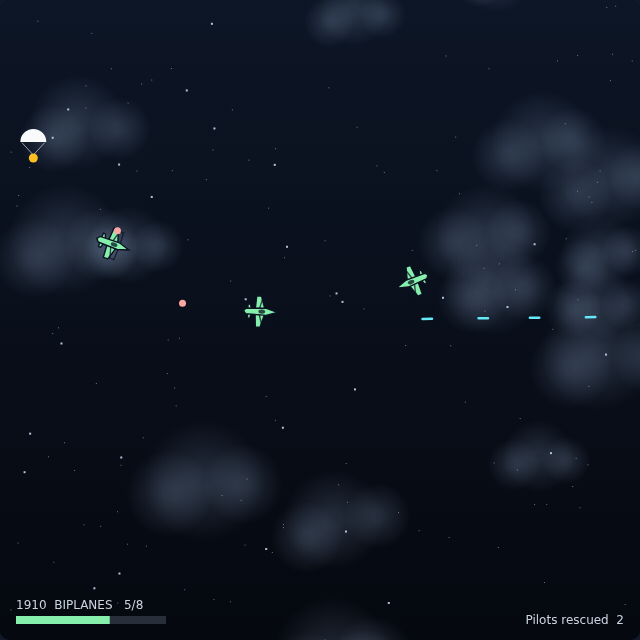
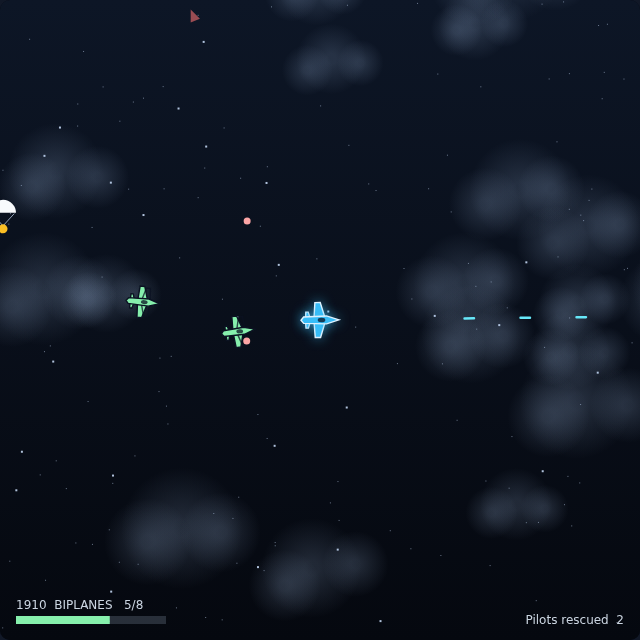
Tune Time Pilot's balance and readability from measured play
Three fixes that came out of actually watching the game run rather than
reading the code:

- Enemies turned at 2.8 rad/s against the player's 2.6, so they out-turned
  the plane and a pursuing pilot died on contact with nothing it could do
  about it. Enemy turn rate is now 1.8 — the gap is the dogfight.
- The early eras were doing late-era work: 4-6 enemies alive and a 1.9s
  fire gap in 1910 burned all three lives inside 8 seconds on a bad seed.
  Thinned the caps and slowed the fire gaps per era; a pilot who never
  touches the controls now lasts 83-175s rather than 30-80s, and lives are
  lost while engaging instead of while arriving. Invulnerability 2s -> 2.5s.
- Invulnerability hid the plane on alternate tenths of a second, so the one
  moment a player most needs to re-orient was the moment they could not see
  their own nose. It now pulses inside a shield ring instead.

Also: the overlay button reads Resume / Fly Again as appropriate, the game
over screen reports the era reached and pilots rescued, and DESIGN.md is
updated to match the shipped numbers and to record why each of them is what
it is. Screenshot retaken.

71 Playwright tests still green.

Claude-Session: https://claude.ai/code/session_01RESMis8NJFFaDayUcgr6cU

diff --git a/TimePilot/game.js b/TimePilot/game.js
@@ -20,7 +20,7 @@ const PLAYER_SPEED = 150;            // px/s, constant — there is no throttle
 const TURN_RATE = 2.6;               // radians/second
 const PLAYER_R = 11;                 // collision radius
 const NOSE = 14;                     // muzzle offset from the plane's centre
-const INVULN_TIME = 2;               // seconds of grace after a hit
+const INVULN_TIME = 2.5;             // seconds of grace after a hit
 const START_LIVES = 3;
 
 // --- guns ------------------------------------------------------------------
@@ -37,7 +37,7 @@ const ENEMY_BULLET_LIFE = 2.6;
 // --- enemies ---------------------------------------------------------------
 
 const ENEMY_R = 13;
-const ENEMY_TURN = 2.8;              // radians/second of weak homing
+const ENEMY_TURN = 1.8;              // radians/second — below the player's 2.6 on purpose
 const ENEMY_RANGE = 320;             // will not shoot from further than this
 const ENEMY_AIM = 0.5;               // radians of aim error it will shoot through
 const ENEMY_SPAWN_GAP = 0.9;         // seconds between arrivals
@@ -61,11 +61,11 @@ const SPEED_STEP = 0.08;             // extra enemy speed per completed cycle
 const BEST_KEY = 'timepilot-best';
 
 const ERAS = [
-    { year: 1910, name: 'BIPLANES',      speed: 95,  maxAlive: 4, quota: 8,  points: 100, fireGap: 1.9,  tint: '#86efac' },
-    { year: 1940, name: 'PROP FIGHTERS', speed: 112, maxAlive: 5, quota: 10, points: 200, fireGap: 1.6,  tint: '#fde047' },
-    { year: 1970, name: 'JETS',          speed: 130, maxAlive: 5, quota: 12, points: 300, fireGap: 1.35, tint: '#93c5fd' },
-    { year: 1983, name: 'GUNSHIPS',      speed: 146, maxAlive: 6, quota: 14, points: 400, fireGap: 1.15, tint: '#fda4af' },
-    { year: 2001, name: 'SAUCERS',       speed: 162, maxAlive: 6, quota: 16, points: 500, fireGap: 0.95, tint: '#d8b4fe' },
+    { year: 1910, name: 'BIPLANES',      speed: 95,  maxAlive: 3, quota: 8,  points: 100, fireGap: 2.6, tint: '#86efac' },
+    { year: 1940, name: 'PROP FIGHTERS', speed: 112, maxAlive: 4, quota: 10, points: 200, fireGap: 2.2, tint: '#fde047' },
+    { year: 1970, name: 'JETS',          speed: 130, maxAlive: 4, quota: 12, points: 300, fireGap: 1.8, tint: '#93c5fd' },
+    { year: 1983, name: 'GUNSHIPS',      speed: 146, maxAlive: 5, quota: 14, points: 400, fireGap: 1.5, tint: '#fda4af' },
+    { year: 2001, name: 'SAUCERS',       speed: 162, maxAlive: 5, quota: 16, points: 500, fireGap: 1.2, tint: '#d8b4fe' },
 ];
 
 // --- state -----------------------------------------------------------------
@@ -191,7 +191,7 @@ function announceEra() {
 function togglePause() {
     if (state === 'running') {
         state = 'paused';
-        showOverlay('PAUSED', 'Score ' + score, 'Press P to resume');
+        showOverlay('PAUSED', 'Score ' + score, 'Press P to resume', 'Resume');
     } else if (state === 'paused') {
         state = 'running';
         hideOverlay();
@@ -205,10 +205,12 @@ function gameOver() {
         saveBest();
     }
     updateHud();
+    const rescues = rescued === 1 ? '1 pilot rescued' : rescued + ' pilots rescued';
     showOverlay(
         'GAME OVER',
         'Score ' + score + '  •  Best ' + best,
-        'Press Space to fly again',
+        'Reached ' + era().year + '  •  ' + rescues + '. Press Space to fly again.',
+        'Fly Again',
     );
 }
 
@@ -455,10 +457,11 @@ function updateHud() {
     els.best.textContent = String(best);
 }
 
-function showOverlay(title, scoreLine, sub) {
+function showOverlay(title, scoreLine, sub, button) {
     els.title.textContent = title;
     els.overlayScore.textContent = scoreLine;
     els.sub.textContent = sub;
+    els.start.textContent = button;
     els.overlay.classList.add('visible');
 }
 
@@ -779,10 +782,20 @@ function draw() {
         ctx.stroke();
     }
 
-    // The plane, forever at the centre. It blinks while invulnerable.
-    const blink = player.invuln > 0 && Math.floor(player.invuln * 10) % 2 === 0;
-    if (state !== 'gameover' && !blink) {
+    // The plane, forever at the centre. While invulnerable it pulses inside a
+    // shield ring rather than blinking out: a plane that is missing on half the
+    // frames is a plane you cannot aim.
+    if (state !== 'gameover') {
         ctx.save();
+        if (player.invuln > 0) {
+            const pulse = 0.5 + 0.5 * Math.sin(player.invuln * 14);
+            ctx.globalAlpha = 0.5 + 0.5 * pulse;
+            ctx.strokeStyle = 'rgba(103, 232, 249, ' + (0.2 + 0.3 * pulse).toFixed(3) + ')';
+            ctx.lineWidth = 2;
+            ctx.beginPath();
+            ctx.arc(W / 2, H / 2, 26, 0, Math.PI * 2);
+            ctx.stroke();
+        }
         ctx.shadowColor = 'rgba(56, 189, 248, 0.55)';
         ctx.shadowBlur = 12;
         drawCraft(W / 2, H / 2, player.heading, 19, '#38bdf8', '#e0f2fe', 'prop', spin);

diff --git a/TimePilot/DESIGN.md b/TimePilot/DESIGN.md
@@ -16,8 +16,9 @@ moving and can point anywhere.
   prop fighters, 1970 jets, 1983 gunships, 2001 saucers.
 - Each era has a kill quota. Fill it and the clock jumps to the next era;
   clear 2001 and the cycle restarts one difficulty step harder.
-- Pilots shot down over the battlefield bail out. Fly *into* a parachute to
-  rescue the pilot for a 1000-point bonus — the only way to score big.
+- Pilots bail out over the battlefield from time to time (on a timer, not off
+  the back of a kill). Fly *into* a parachute to rescue one for a 1000-point
+  bonus — worth more than any kill in any era.
 - Three lives. An enemy plane, or one of its bullets, costs one.
 
 ## Mechanics
@@ -46,28 +47,45 @@ The world is unbounded — there are no walls. Any enemy or bullet further than
 
 ### Enemies
 
-Enemies spawn on the despawn ring at a random bearing and fly a weak homing
-course: each tick they steer toward the player at `ENEMY_TURN` (1.1 rad/s) and
-move at their era's speed. Weak homing means they overshoot and come back round,
-which produces the swirling dogfight the original arcade game is known for,
-without any per-enemy state machine.
+Enemies spawn on the spawn ring at a random bearing and fly a weak homing
+course: each tick they steer toward the player at `ENEMY_TURN` and move at
+their era's speed. Weak homing means they overshoot and come back round, which
+produces the swirling dogfight without any per-enemy state machine.
 
-An enemy whose nose is within ~0.5 rad of the player and inside 320 px may fire;
-the chance per second is the era's `fireRate`. Enemy bullets are slower
-(190 px/s) than the player's and live 2.6 s.
+`ENEMY_TURN` is 1.8 rad/s against the player's 2.6, and that gap is the whole
+fight. The first build had enemies turning at 2.8 — faster than the player —
+and a bot that flew at the nearest enemy died on contact every time, because
+nothing could ever be shaken or out-turned. Enemies are also slower in a
+straight line (95–162 px/s against 150), so running away works in the early
+eras and stops working in the late ones.
+
+An enemy whose nose is within `ENEMY_AIM` (0.5 rad) of the player and inside
+`ENEMY_RANGE` (320 px) fires when its own cooldown expires; the cooldown is the
+era's `fireGap` jittered by ±30%, which is deterministic enough to test and
+irregular enough not to sound like a metronome. Enemy bullets leave the hull
+rather than the centre, are slower (190 px/s) than the player's, and live
+2.6 s.
 
 The number of enemies alive at once is capped per era (`maxAlive`), and a fresh
 one is dripped in on `ENEMY_SPAWN_GAP` (0.9 s) while below the cap.
 
 ### Eras and waves
 
-| Wave era | Year | Enemy speed | Max alive | Quota | Points |
-|---|---|---|---|---|---|
-| Biplanes | 1910 | 95 | 4 | 8 | 100 |
-| Prop fighters | 1940 | 112 | 5 | 10 | 200 |
-| Jets | 1970 | 130 | 5 | 12 | 300 |
-| Gunships | 1983 | 146 | 6 | 14 | 400 |
-| Saucers | 2001 | 162 | 6 | 16 | 500 |
+| Era | Year | Enemy speed | Max alive | Fire gap | Quota | Points |
+|---|---|---|---|---|---|---|
+| Biplanes | 1910 | 95 | 3 | 2.6 s | 8 | 100 |
+| Prop fighters | 1940 | 112 | 4 | 2.2 s | 10 | 200 |
+| Jets | 1970 | 130 | 4 | 1.8 s | 12 | 300 |
+| Gunships | 1983 | 146 | 5 | 1.5 s | 14 | 400 |
+| Saucers | 2001 | 162 | 5 | 1.2 s | 16 | 500 |
+
+These came out of a scripted pilot rather than guesswork: a bot that flies at
+the nearest enemy and shoots, run over several seeds, plus a "passive" run that
+never touches the controls. The first numbers (4–6 enemies alive, a 1.9 s fire
+gap in 1910) killed a passive pilot in 30–80 s and burned all three lives
+inside 8 s on a bad seed — the early eras were doing late-era work. At the
+numbers above a passive pilot lasts 83–175 s, and the lives a player loses are
+lost while engaging rather than while arriving.
 
 `wave` is 1-based and never resets; the era is `(wave - 1) % 5`, so wave 6 is
 1910 again but every enemy speed is multiplied by `1 + 0.08 * cycle`. Hitting
@@ -90,8 +108,11 @@ harmless; the risk is that chasing one means not watching the dogfight.
 ### Damage and lives
 
 A hit (enemy bullet, or flying into an enemy) costs a life and grants
-`INVULN_TIME` 2 s of blinking invulnerability during which nothing can hurt the
-player and the battlefield's enemy bullets are cleared. At zero lives the state
+`INVULN_TIME` 2.5 s of invulnerability during which nothing can hurt the player
+and the battlefield's enemy bullets are cleared. The plane pulses inside a
+shield ring for the duration rather than blinking out of existence — an earlier
+version hid it on alternate tenths of a second, which made the one moment you
+most need to re-orient the moment you cannot see your own nose. At zero lives the state
 becomes `gameover`, the best score is written to `localStorage`
 (`timepilot-best`), and the overlay returns.
 
